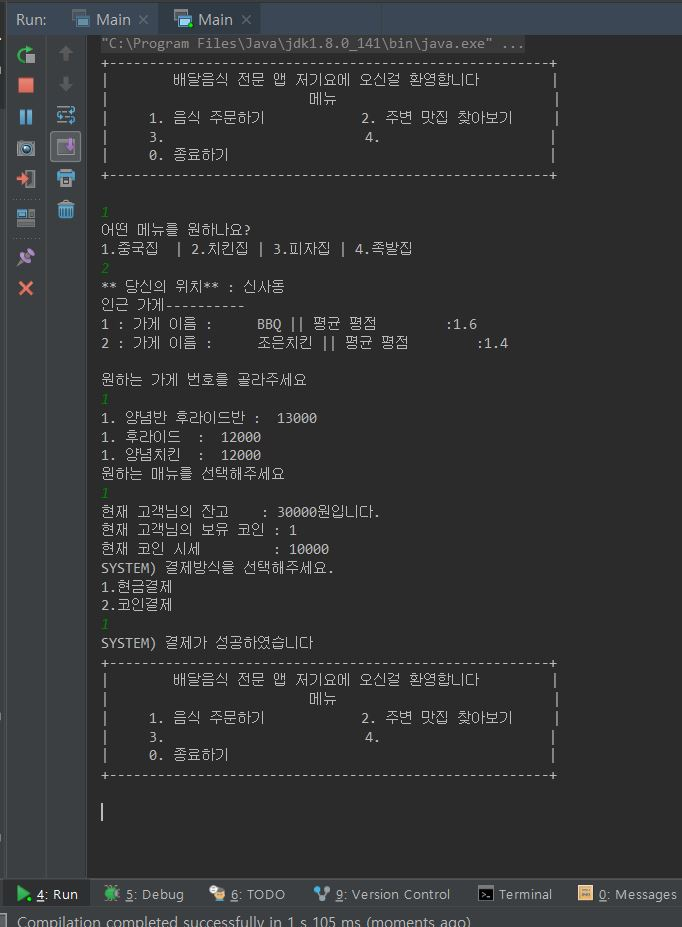
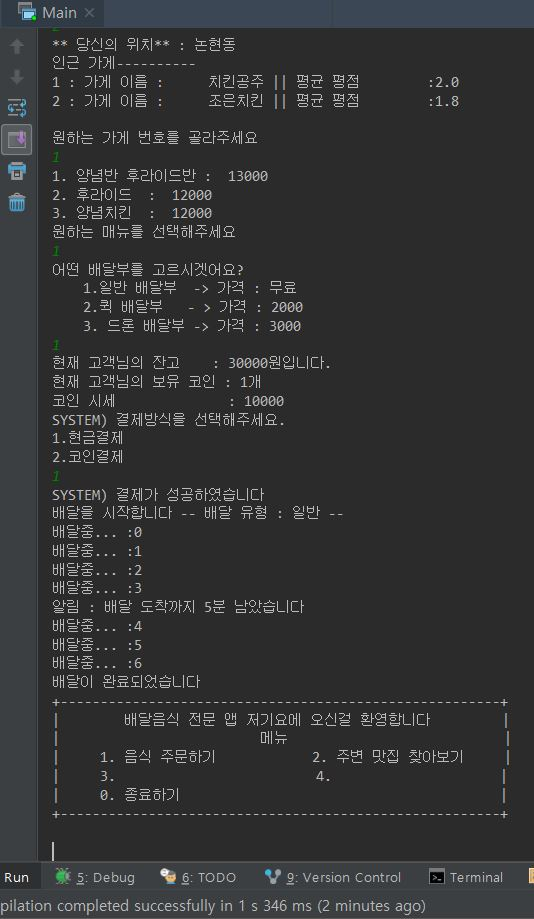
1차 결제 모듈 구현

diff --git a/src/main/java/store/Store.java b/src/main/java/store/Store.java
@@ -55,27 +55,68 @@ public class Store
     public void makeOrder(Client client) throws IOException
     {
         BufferedReader br = new BufferedReader(new InputStreamReader(System.in));   // scanf를 사용하기 위한 객체
-        Map<Integer,String> selectMap = menu.showMenu();       //
-        Map<String,Integer> menuMap = menu.getMenuList();
-        String select = null;                               // 콘솔에서 유저가 선택한 메뉴 번호
-        int price = 0;                                      // 메뉴의 가격
+        Map<Integer,String> selectMap = menu.showMenu();                            // map에 < 1, "첫번째 메뉴"> 이런 식으로 저장되어있음 key는 콘솔에 띄워지는 메뉴 번호
+        Map<String,Integer> menuMap = menu.getMenuList();                           // map에 <"메뉴", 가격> 형식으로 저장되어있는 데이터를 가져온다.
+        String select = null;                                                       // 콘솔에서 유저가 선택한 메뉴 번호
+        int price = 0;                                                              // 메뉴의 가격
+        int deliverType = 0;                                                        // 어떤 배달원을 고를지 정하는 변수
 
         System.out.println("원하는 매뉴를 선택해주세요");
-        select = br.readLine();     //  sacnf (문자열 입력받음)
-        price = menuMap.get(selectMap.get(Integer.parseInt(select)));        // 금액은 map객체에서 입력받은 숫자(키)로부터 꺼내온다.
-        if(client.pay(this,select,price))                 // 고객이 메뉴 결제를 결제한다. 인자 : (해당 가게 객체, 메뉴, 금액), 성공시 true, 실패시 false 리턴
+        select = br.readLine();                                                     // sacnf (문자열 입력받음)
+        price = menuMap.get(selectMap.get(Integer.parseInt(select)));               // 금액은 map객체에서 입력받은 숫자(키)로부터 꺼내온다.
+
+        deliverType =  pickDeliver();                                               // 여기서 배달 유형을 입력 받는다
+        price += getDriverFee(deliverType);                                         // 배달 종류에 따라 추가요금 계산
+        if(client.pay(this,select,price))                                     // 고객이 메뉴 결제를 결제한다. 인자 : (해당 가게 객체, 메뉴, 금액), 성공시 true, 실패시 false 리턴
         {
-            money += price;                                    // 결제 성공시, 음식 가격을 가게 소지금에 추가
-        }                                                          // 실패시 아무 행동도 하지 않고 함수 종료
+            money += price;                                                         // 결제 성공시, 음식 가격을 가게 소지금에 추가
+            sendDeliver(deliverType);                                               //      배달 시작
+        }                                                                           // 실패시 아무 행동도 하지 않고 함수 종료
+    }
+
+    /**
+     * 사용자가 어떤 배달부를 사용할 것인지 입력을 받아 정하는 클래스
+     * @return   int    1 -> 일반 배달부 . 2 -> 퀵 배달부, 3 -> 드론 배달부
+     */
+    private int pickDeliver() throws IOException
+    {
+        BufferedReader br = new BufferedReader(new InputStreamReader(System.in));   // scanf를 사용하기 위한 객체
+        System.out.println("어떤 배달부를 고르시겟어요? \n" +
+                           "\t1.일반 배달부  -> 가격 : 무료\n" +
+                           "\t2.퀵 배달부   - > 가격 : " + QuickDeliver.getAdditionalFee() + "\n" +
+                           "\t3. 드론 배달부 -> 가격 : " + DroneDeliver.getAdditionalFee());
+        String choice = br.readLine();  // scanf
+
+        return Integer.parseInt(choice);    // 선택한 번호를 정수로 바꾸고 반환
+    }
+
+    /**
+     * 배달부 타입에 따라 추가 요금을 붙여주는 함수
+     * @param deliverType  드라이버의 종류
+     * @return
+     */
+    private int getDriverFee(int deliverType)
+    {
+        switch(deliverType)
+        {
+            case 1:             // 일반일때 배달요금 없음
+                return 0;
+            case 2:             // 퀵배달 추가요금 계산
+                return QuickDeliver.getAdditionalFee();
+            case 3:             // 드론 배달 추가요금 계산
+                return DroneDeliver.getAdditionalFee();
+            default:
+                return 0;
+        }
     }
 
     /**
      * 사용자가 원하는 타입의 배달부를 대기중인 배달부 큐에서 꺼내는 함수
      *
-     * @param   deliverType 어떤 배달을 시킬지에 대한 값
+     * @param   deliverType 어떤 배달을 시킬지에 대한 값   ( 1. 일반 배달부, 2. 퀵배달, 3.드론배달 )
      * @return  해당 유형의 배달부
      */
-    private Deliver pickDeliver(int deliverType)
+    private Deliver selectDeliver(int deliverType)
     {
         switch(deliverType)                                 // .peek : 큐의 제일 앞을 확인, .offer : 큐에 데이터를 집어넣기 ,
         {                                                   // .poll : 큐의 제일 앞의 값을 삭제하고 그 값을 반환
@@ -106,14 +147,13 @@ public class Store
         }
     }
 
-
     /**
      * 배달을 보내는 함수
      * @param deliverType 사용자가 원하는 타입의 배달,
      */
     private void sendDeliver(int deliverType)   // deliverType , 1. 일반 배달, 2. 퀵배달, 3. 드론배달
     {
-        Deliver deliver = pickDeliver(deliverType);       // 대기중인 배달부 큐에서 데이터를 꺼낸다.
+        Deliver deliver = selectDeliver(deliverType);       // 대기중인 배달부 큐에서 데이터를 꺼낸다.
         try{
             deliver.deliverStart();                      //  뽑은 배달부를 배달보낸다.
         }catch(InterruptedException e) {

diff --git a/src/main/java/App.java b/src/main/java/App.java
@@ -101,9 +101,20 @@ public class App
      */
     public void findGoodPlace(Client client) throws IOException
     {
-        String store = findNearStore(client,3.0);     // 3.0 이상 평점의 주변 음식점 데이터를가져온다.
-
+        String storeName = findNearStore(client,3.0);     // 3.0 이상 평점의 주변 음식점 데이터를가져온다.
+        Store store = null;
         if(store == null)return; // 주변에 검색된 가게가 없으면 자동 종료
+
+        // storeList를 순회하다 사용자가 선택한 가게 이름을 가진 store객체를 찾으면 store 변수에 대입하고 루프 탈출
+        for(int i = 0 ; i < storeList.size() ; i++)
+        {
+            if(storeList.get(i).getStoreName().equals(storeName)) // storeList의 i번째 가게 객체의 이름과, 유저가 선택한 가게 이름이 같을 때,
+            {
+                store = storeList.get(i);
+                break;
+            }
+        }
+        store.makeOrder(client);
     }
 
 

diff --git a/src/main/java/store/deliver/QuickDeliver.java b/src/main/java/store/deliver/QuickDeliver.java
@@ -3,13 +3,12 @@ package store.deliver;
 public class QuickDeliver extends Deliver
 {
     // 멤버변수
-    private int additionalFee;      // 추가요금
+    private static int additionalFee = 2000;      // 추가요금
 
     // 생성자
     public QuickDeliver()
     {
         super();
-        this.additionalFee = 2000;
     }
 
     @Override
@@ -25,5 +24,10 @@ public class QuickDeliver extends Deliver
             i++;
         }
         System.out.println("배달이 완료되었습니다");
+    }
+
+    public static int getAdditionalFee()
+    {
+        return additionalFee;
     }
 }

diff --git a/src/main/java/account/ClientAccount.java b/src/main/java/account/ClientAccount.java
@@ -31,8 +31,8 @@ public class ClientAccount extends Account
     public void showRemain()
     {
         super.showRemain();                     // C++ 에서는 Account.showRemain()
-        System.out.println("현재 고객님의 보유 코인 : " + coinAccount.getCoin());
-        System.out.println("현재 코인 시세         : " + coinAccount.getExchangeRate());
+        System.out.println("현재 고객님의 보유 코인 : " + coinAccount.getCoin() + "개");
+        System.out.println("코인 시세              : " + coinAccount.getExchangeRate());
     }
 
     /**

diff --git a/src/main/java/store/deliver/DroneDeliver.java b/src/main/java/store/deliver/DroneDeliver.java
@@ -2,12 +2,11 @@ package store.deliver;
 
 public class DroneDeliver extends Deliver
 {
-    int additionalFee;
+    private static int additionalFee = 3000;
 
     public DroneDeliver()
     {
         super();
-        this.additionalFee = 3000;
     }
 
     @Override
@@ -23,5 +22,10 @@ public class DroneDeliver extends Deliver
             i++;
         }
         System.out.println("배달이 완료되었습니다");
+    }
+
+    public static int getAdditionalFee()
+    {
+        return additionalFee;
     }
 }

diff --git a/src/main/java/store/Menu.java b/src/main/java/store/Menu.java
@@ -62,6 +62,7 @@ public class Menu       // 메뉴판 하나에 대한 클래스
         {
             String key = it.next(); //map 의 key (메뉴 이름)
             System.out.println(menuNum + ". " + key + " :  " + menuList.get(key));
+            menuNum++;
         }
 
         it = menuList.keySet().iterator();                      // iterator은 일회용, 재사용해야한다. 다시 키 set을 받아온다.
